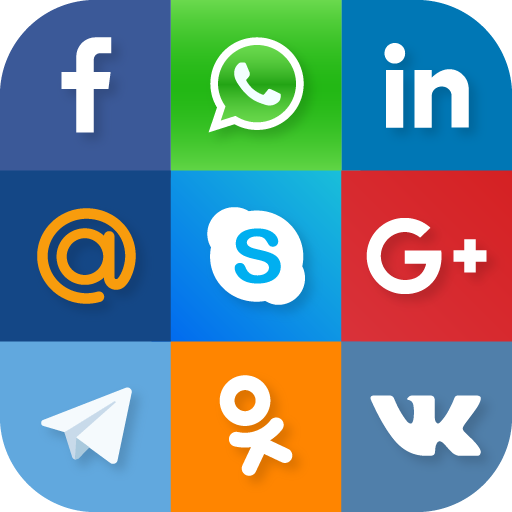
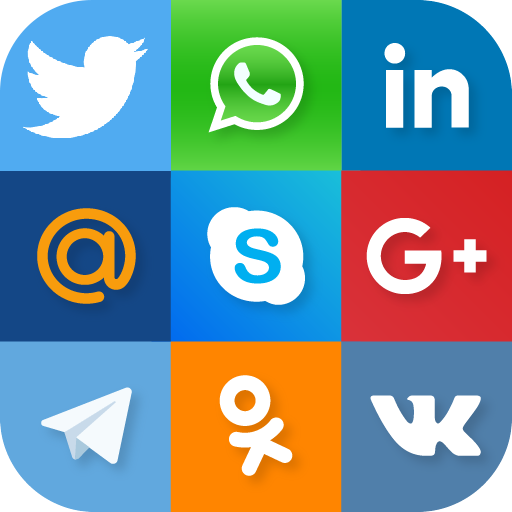
new ver

Changed region(s): [[0.0, 0.0, 0.3438, 0.3438]]

diff --git a/www/index.html b/www/index.html
@@ -85,11 +85,11 @@
           </div>
       </div>
       <div class="cell">
-        <a onclick="openurl('https://m.facebook.com/messages')">
-          <img src="img/fb.png"  
+        <a onclick="openurl('https://mobile.twitter.com/')">
+          <img src="img/tw.png"  
         ></a>  
         <div class="tit">
-          Facebook
+          Twitter
         </div>
       </div>
     </div>

diff --git a/README.md b/README.md
@@ -1,4 +1,4 @@
-# A Blank PhoneGap App
+# A PhoneGap App
 
 ## Usage
 
